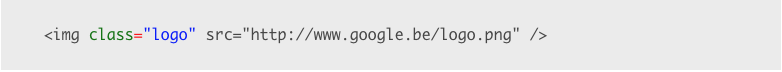
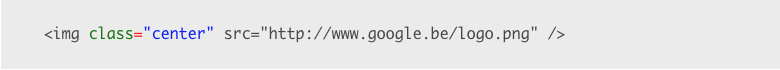
class / id

Changed region(s): [[0.0615, 0.3714, 0.7385, 0.6], [0.0923, 0.5714, 0.1231, 0.6], [0.0615, 0.5429, 0.0923, 0.5714]]

diff --git a/html/elementen/attributen.md b/html/elementen/attributen.md
@@ -26,11 +26,11 @@ Standaard wordt een link geopend in het zelfde venster. Het <code>target</code> 
 In dit voorbeeld wordt een beeld (“image”) getoond. Het attribuut <code>src</code> bevat de URL naar het beeld. Een <code>&lt;img&gt;</code> element heeft geen inhoud dus wordt het meteen gesloten.
 
 ### Het <code>class</code> attribuut
-Een belangrijk attribuut voor het opmaken van eender welk HTML element is het <code>class</code> attribuut.
+Je kan een <code>class</code> gebruiken voor het opmaken van eender welk HTML element.
 
-<img src="{{ '/html/elementen/images/attributen_4.png' | relative_url}}" />
+<img src="{{ '/html/elementen/images/attributen_4.png' | relative_url}}" />.
 
-Door een bepaalde <code>class</code> toe te kennen aan of meerdere elementen kan je specifieke opmaak toepassen op die elementen.
+Een <code>class</code> is vooral nuttig wanneer je meerdere elementen een zelfde opmaak wil geven.
 
 We zullen dit nog uitvoerig bekijken wanneer we over "CSS" leren.
 
